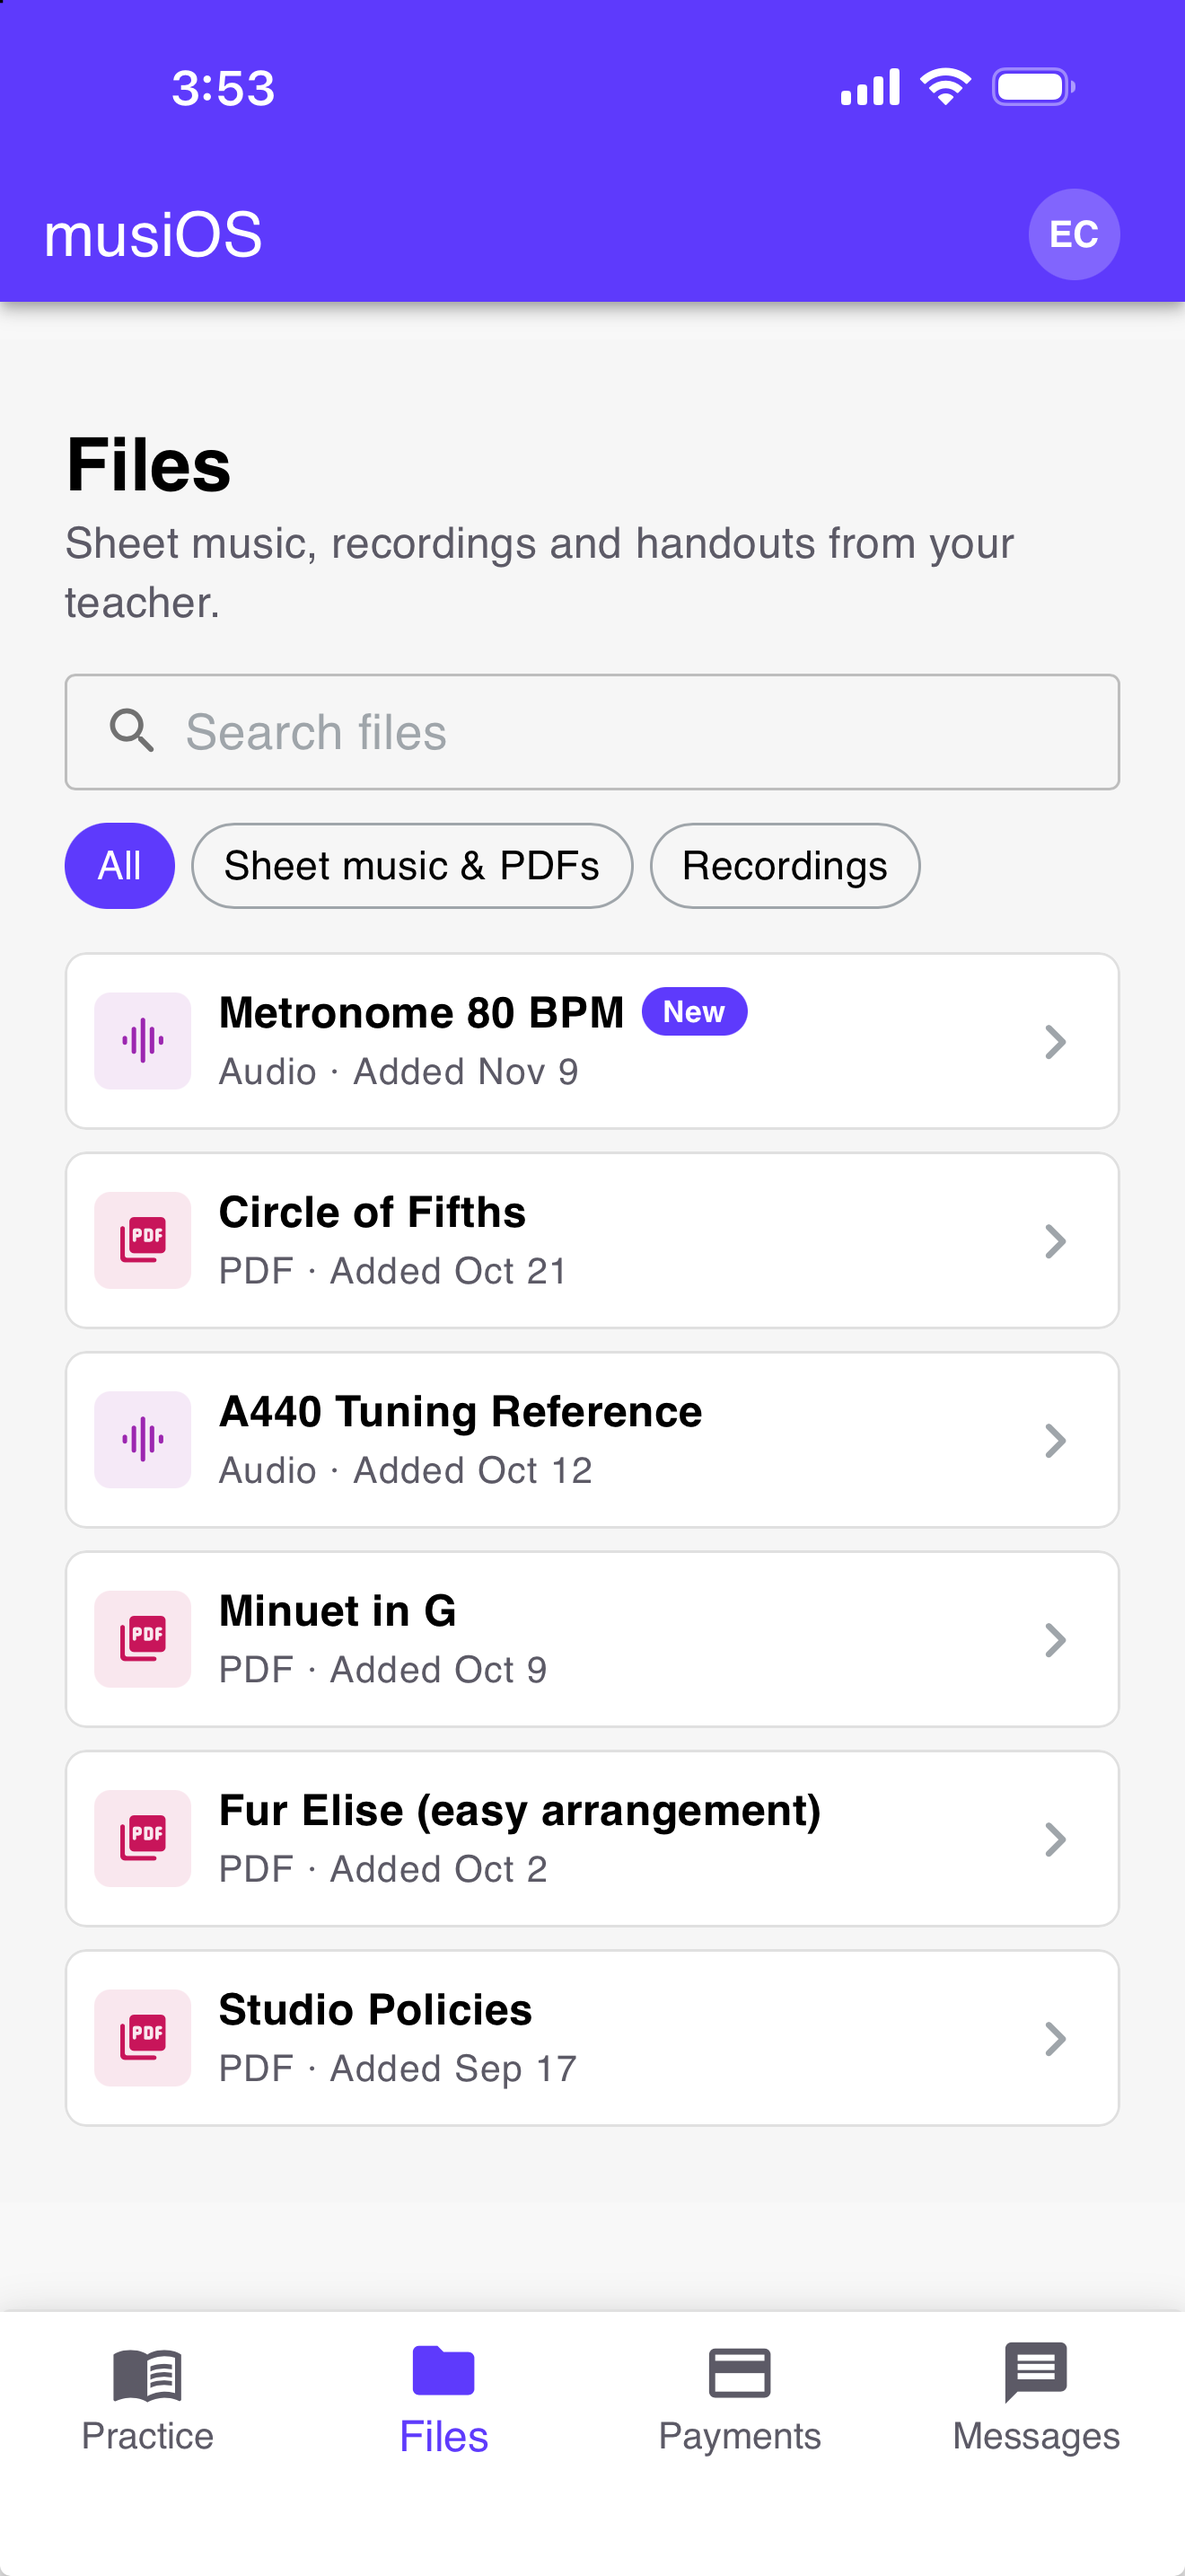
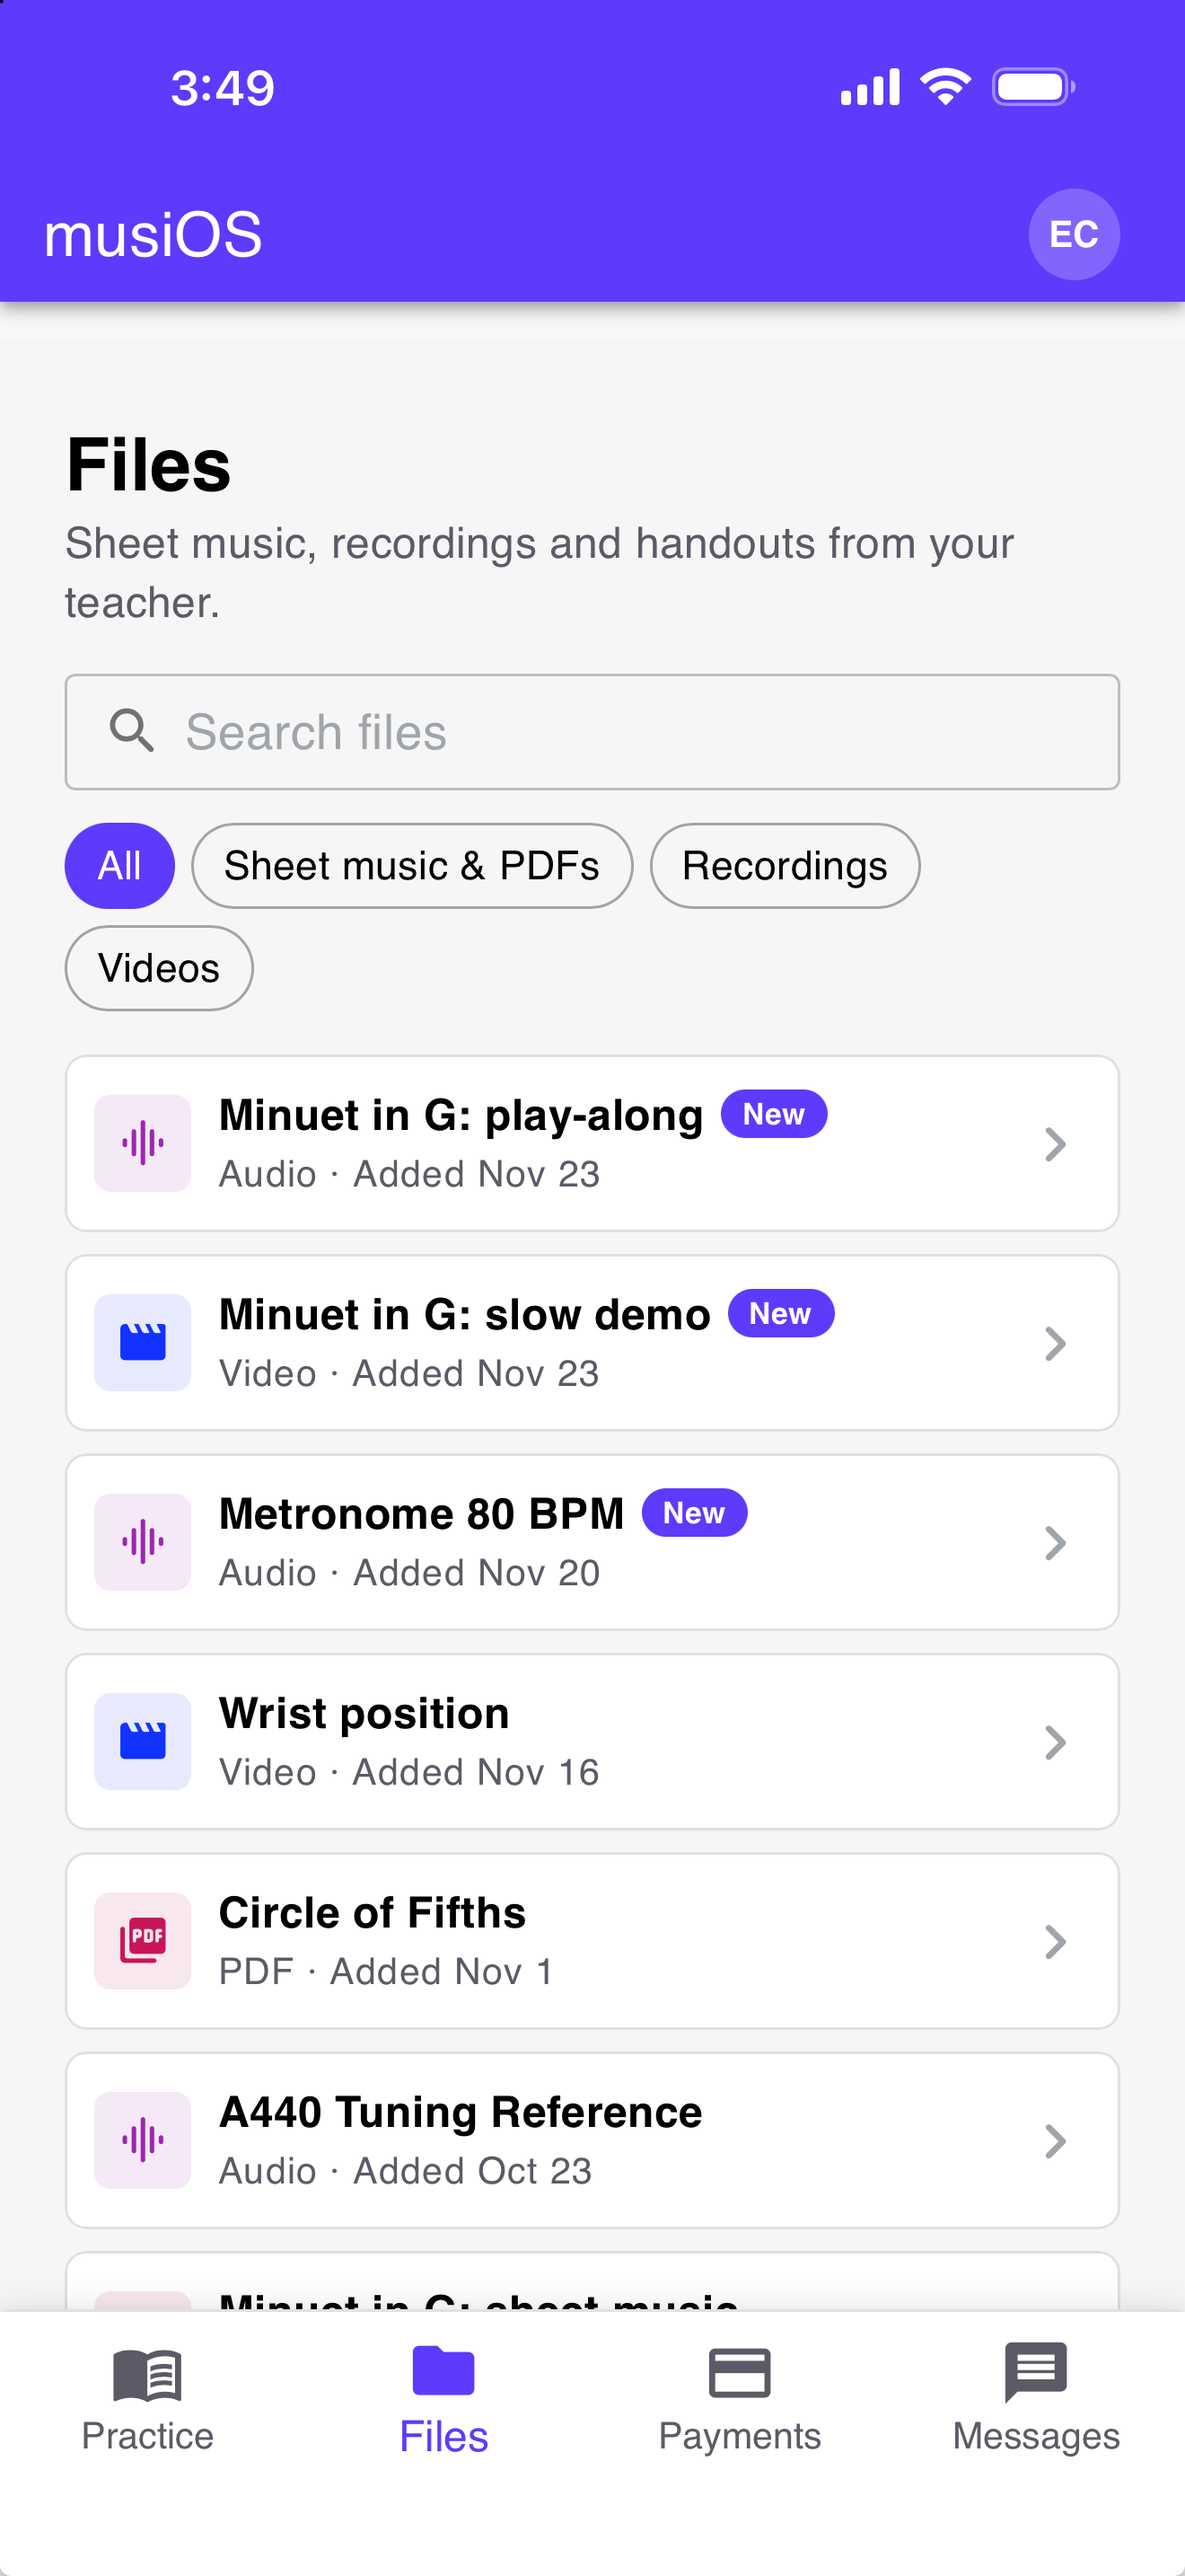
changes

diff --git a/components/Features.tsx b/components/Features.tsx
@@ -1,4 +1,4 @@
-import { MdCalendarMonth, MdFamilyRestroom, MdQueueMusic, MdPayments, MdHandshake, MdForum, MdCheck } from "react-icons/md";
+import { MdAttachFile, MdCalendarMonth, MdFamilyRestroom, MdQueueMusic, MdPayments, MdHandshake, MdForum, MdCheck } from "react-icons/md";
 import { LandscapePhoneFrame, PhoneFrame } from "./Frames";
 import Reveal from "./Reveal";
 import Screen from "./Screen";
@@ -7,6 +7,21 @@ import SectionHeading from "./SectionHeading";
 // Each claim here matches something the app does today. Keep it that way:
 // a feature that's only planned belongs in the FAQ as "coming", not here.
 const FEATURES = [
+  {
+    icon: MdAttachFile,
+    label: "Videos, music & sheet music",
+    title: "Everything they need, right where they practice",
+    body: "Upload your demo videos, play-along tracks and sheet music, and attach them to the exact piece or scale you've set. Students open it straight from that practice item, so there's nothing to search for in emails or chats.",
+    points: [
+      "Videos, recordings, PDFs and images, straight from your phone or computer",
+      "Upload while you set the practice, or reuse files from your own library",
+      "Share with one student or a whole class in a couple of taps",
+    ],
+    pair: [
+      { caption: "You attach it", name: "files-attach", label: "Teacher · Practice item with files", alt: "A teacher adding a demo video, a play-along and sheet music to a practice item in MusiOS" },
+      { caption: "They open it", name: "files-open", label: "Student · Practice item, Files", alt: "A student opening the video, play-along and sheet music from that practice item" },
+    ],
+  },
   {
     icon: MdCalendarMonth,
     label: "Schedule & students",
@@ -33,7 +48,7 @@ const FEATURES = [
     label: "Practice",
     title: "Practice that actually happens",
     body: "Assign this week's pieces and scales with a daily goal. Students log their reps on their phone, and you can see who's on track before the lesson, not during it.",
-    points: ["On track or behind, for every student and class", "Attach sheet music and recordings", "A shared library of your files"],
+    points: ["On track or behind, for every student and class", "Set work for one student or a whole class", "Spot who has nothing assigned yet"],
     shot: { name: "practice", label: "Teacher · Practice roster", alt: "The practice overview showing which students are on track this week" },
   },
   {
@@ -96,9 +111,25 @@ const Features = () => (
                 </ul>
               </div>
               <div className="flex flex-col items-center rounded-[2rem] bg-gradient-to-br from-brand-soft to-indigo-50 px-6 py-12">
-                <PhoneFrame className="w-[230px] sm:w-[250px]">
-                  <Screen {...f.shot} sizes="250px" />
-                </PhoneFrame>
+                {"shot" in f && f.shot && (
+                  <PhoneFrame className="w-[230px] sm:w-[250px]">
+                    <Screen {...f.shot} sizes="250px" />
+                  </PhoneFrame>
+                )}
+                {/* Both sides of one thing: the teacher's screen and the student's.
+                    Side by side only where each phone stays readable. */}
+                {"pair" in f && f.pair && (
+                  <div className="grid w-full max-w-[470px] justify-items-center gap-10 sm:grid-cols-2 sm:gap-5 md:grid-cols-1 md:gap-10 lg:grid-cols-2 lg:gap-4">
+                    {f.pair.map(({ caption, ...shot }) => (
+                      <div key={caption}>
+                        <PhoneFrame className="w-[230px] sm:w-[220px] md:w-[240px] lg:w-[190px] xl:w-[215px]">
+                          <Screen {...shot} sizes="240px" />
+                        </PhoneFrame>
+                        <p className="mt-4 text-center text-sm font-semibold text-ink">{caption}</p>
+                      </div>
+                    ))}
+                  </div>
+                )}
                 {/* Overlaps the empty end of the day above it. */}
                 {"wide" in f && f.wide && (
                   <LandscapePhoneFrame className="z-10 -mt-24 max-w-[440px] sm:-mt-28">

diff --git a/components/StudentApp.tsx b/components/StudentApp.tsx
@@ -6,13 +6,13 @@ import SectionHeading from "./SectionHeading";
 const SCREENS = [
   {
     title: "This week's practice",
-    body: "What to practise, the daily goal, and a quick way to log the minutes.",
+    body: "What to practice, the daily goal, and a quick way to log the minutes.",
     shot: { name: "student-practice", label: "Student · Practice", alt: "A student's practice list with minutes logged each day" },
   },
   {
-    title: "Sheet music & recordings",
+    title: "Videos, music & sheet music",
     body: "Everything you've shared, in one place, opened right on their phone.",
-    shot: { name: "student-files", label: "Student · Files", alt: "Sheet music and recordings shared with a student" },
+    shot: { name: "student-files", label: "Student · Files", alt: "Videos, recordings and sheet music shared with a student" },
   },
   {
     title: "Pay in a tap",

diff --git a/components/Hero.tsx b/components/Hero.tsx
@@ -17,8 +17,8 @@ const Hero = () => (
           Teach music, not admin.
         </h1>
         <p className="mt-5 max-w-xl text-lg text-slate-600 [text-wrap:pretty] sm:text-xl">
-          Schedule lessons, assign practice, get paid and message your students, all from one app on your phone.
-          Your students get the app too.
+          Give every practice item its own videos, play-alongs and sheet music. Schedule lessons, get paid and message
+          your students, all from one app on your phone. Your students get the app too.
         </p>
         <div className="mt-8 flex flex-wrap items-center gap-x-6 gap-y-4">
           <WaitlistButton size="lg" />

diff --git a/components/FAQ.tsx b/components/FAQ.tsx
@@ -10,7 +10,7 @@ const faqs = [
   {
     question: "What is MusiOS?",
     answer:
-      "MusiOS is an app for music teachers that brings scheduling, practice tracking, messaging and payments into one place, on your phone and on the web. Your students sign in to the same app to see what to practise, open the files you share and pay you.",
+      "MusiOS is an app for music teachers that brings scheduling, practice tracking, messaging and payments into one place, on your phone and on the web. Your students sign in to the same app to see what to practice, open the files you share and pay you.",
   },
   {
     question: "When can I start using it?",
